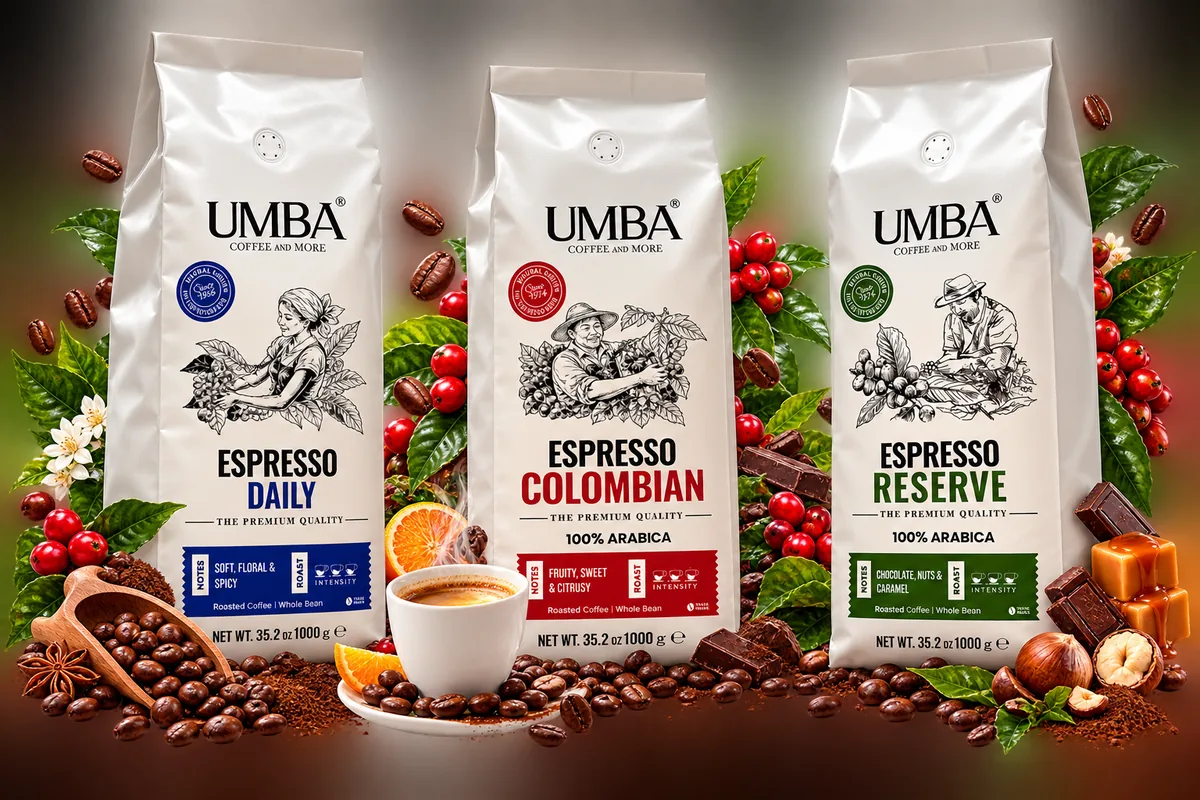
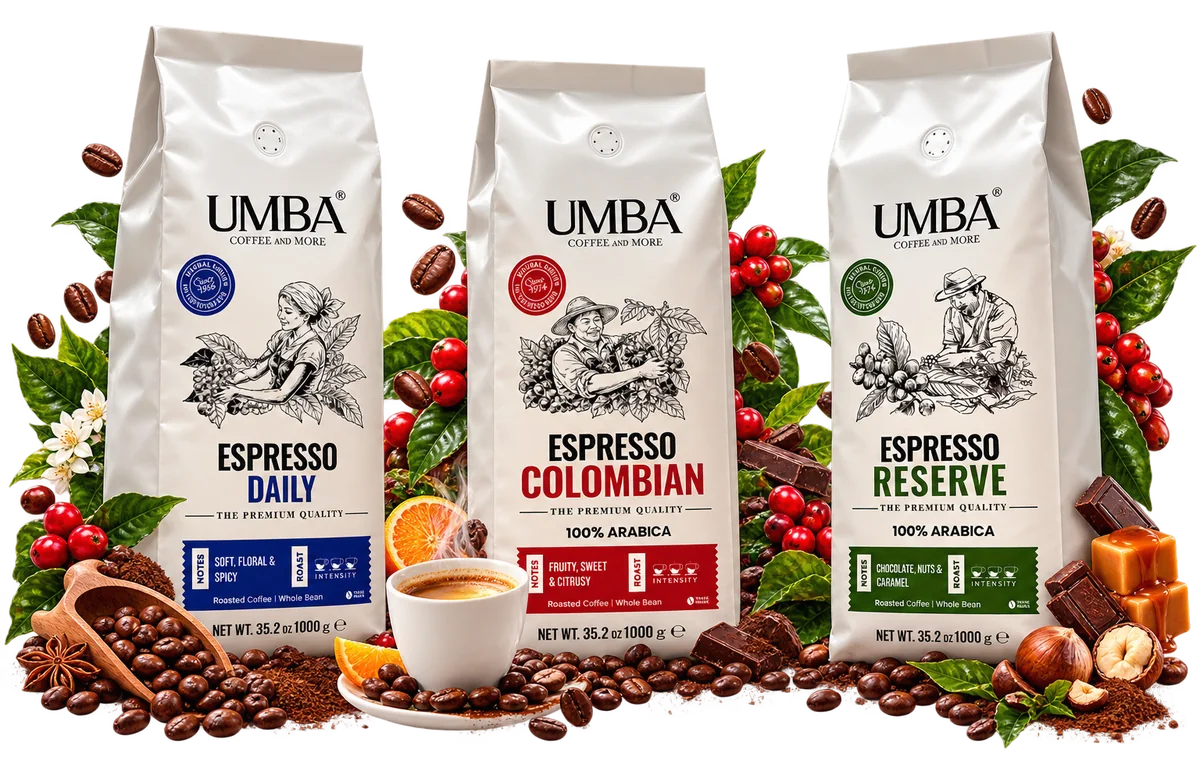
Kahve koleksiyon görseli şeffaf hâliyle (kırpma kaldırıldı) slaytta ve kategori kartlarında
Claude-Session: https://claude.ai/code/session_019xzkHgQGHpR7kaDZ1Jq9RT

diff --git a/src/components/home/CategoryGrid.tsx b/src/components/home/CategoryGrid.tsx
@@ -34,7 +34,7 @@ export function CategoryGrid() {
                     İncele
                     <ArrowUpRight className="h-4 w-4 transition-transform group-hover:-translate-y-0.5 group-hover:translate-x-0.5" />
                   </span>
-                  <CategoryVisual category={c} sample={sample} className={c.imageLandscape ? "h-auto w-40 rounded-xl drop-shadow-md transition-transform duration-700 ease-[cubic-bezier(0.22,1,0.36,1)] group-hover:-translate-y-1" : "h-28 w-auto drop-shadow-md transition-transform duration-700 ease-[cubic-bezier(0.22,1,0.36,1)] group-hover:-translate-y-1 group-hover:-rotate-3"} />
+                  <CategoryVisual category={c} sample={sample} className={c.imageLandscape ? "h-auto w-48 drop-shadow-md transition-transform duration-700 ease-[cubic-bezier(0.22,1,0.36,1)] group-hover:-translate-y-1" : "h-28 w-auto drop-shadow-md transition-transform duration-700 ease-[cubic-bezier(0.22,1,0.36,1)] group-hover:-translate-y-1 group-hover:-rotate-3"} />
                 </div>
               </Link>
             </Reveal>

diff --git a/src/components/product/CategoryVisual.tsx b/src/components/product/CategoryVisual.tsx
@@ -7,7 +7,7 @@ import { ProductVisual } from "./ProductVisual";
 export function CategoryVisual({ category, sample, className }: { category: Category; sample?: Product; className?: string }) {
   if (category.image) {
     const landscape = category.imageLandscape;
-    return <Image src={assetUrl(category.image)} alt={category.name} width={landscape ? 1200 : 900} height={landscape ? 800 : 1200} className={className} style={{ objectFit: landscape ? "cover" : "contain" }} />;
+    return <Image src={assetUrl(category.image)} alt={category.name} width={landscape ? 1200 : 900} height={landscape ? 800 : 1200} className={className} style={{ objectFit: "contain" }} />;
   }
   if (!sample) return null;
   return <ProductVisual product={sample} className={className} />;

diff --git a/src/components/layout/Header.tsx b/src/components/layout/Header.tsx
@@ -192,7 +192,7 @@ export function Header() {
                                   sample={sample}
                                   className={cn(
                                     "absolute drop-shadow-md transition-transform duration-500 group-hover/item:scale-110",
-                                    c.imageLandscape ? "right-2 top-1/2 h-auto w-[34%] -translate-y-1/2 rounded-lg" : "-right-1 bottom-0 h-[92%] w-auto group-hover/item:-rotate-6",
+                                    c.imageLandscape ? "-right-1 top-1/2 h-auto w-[44%] -translate-y-1/2" : "-right-1 bottom-0 h-[92%] w-auto group-hover/item:-rotate-6",
                                   )}
                                 />
                               </Link>

diff --git a/src/components/home/HeroSlider.tsx b/src/components/home/HeroSlider.tsx
@@ -39,7 +39,7 @@ const slides: Slide[] = [
     primary: { label: "Ürünleri keşfet", href: "/urunler" },
     secondary: { label: "Kurumsal fiyat al", href: "/kurumsal" },
     products: [],
-    image: { src: "/hero/kahve.webp", alt: "Umba espresso koleksiyonu: Daily, Colombian, Reserve", fit: "cover" },
+    image: { src: "/hero/kahve.webp", alt: "Umba espresso koleksiyonu: Daily, Colombian, Reserve" },
     badge: { label: "Yeni", product: "espresso-reserve" },
     caption: "Umba Coffee · 2026 koleksiyonu",
     tone: "dark",
